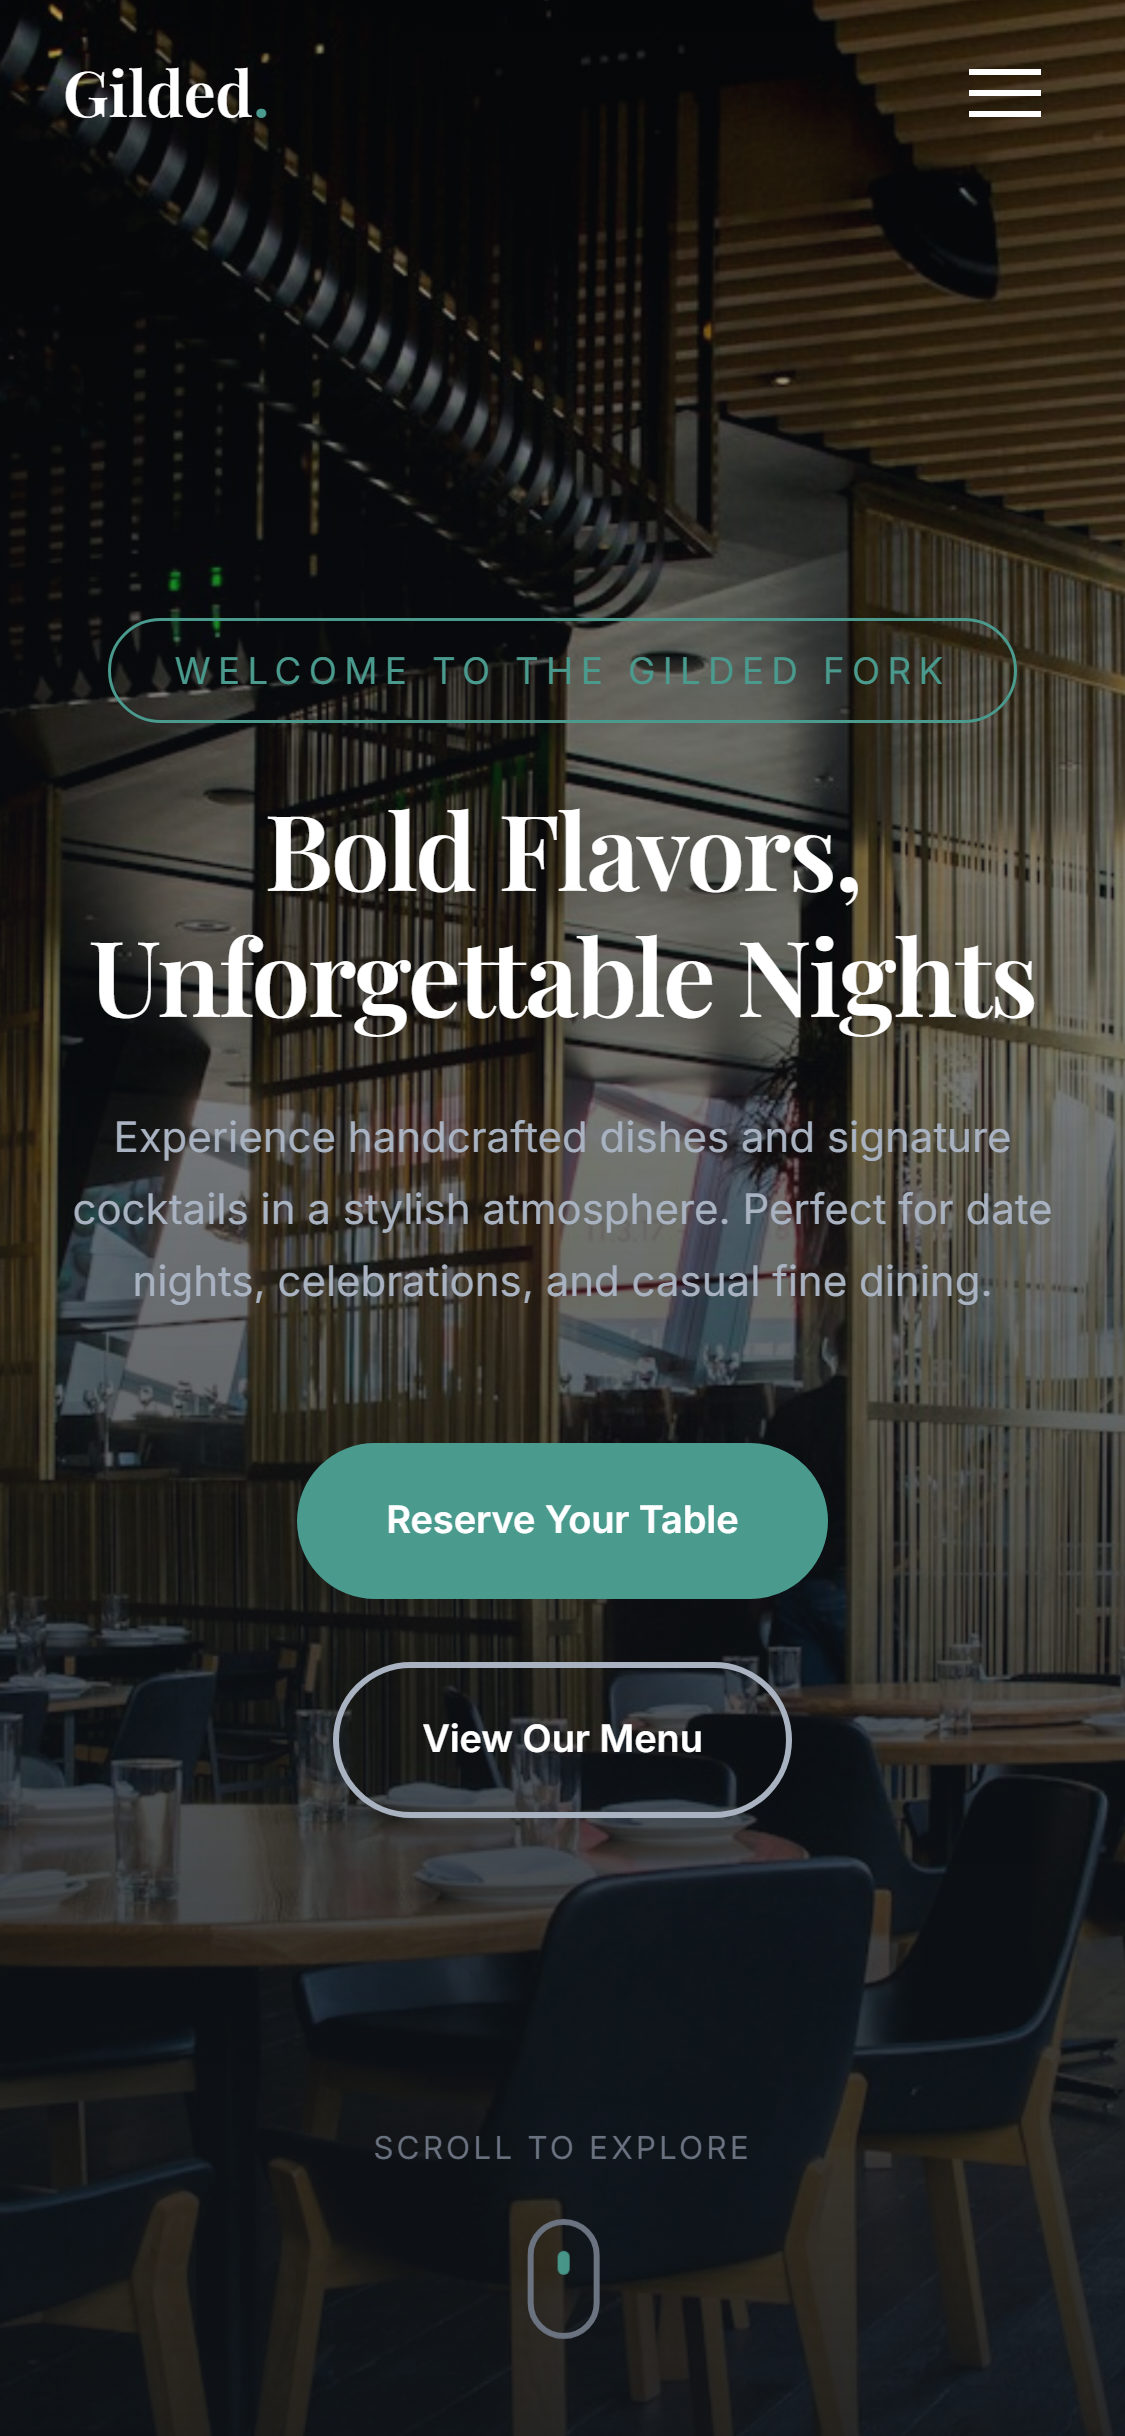
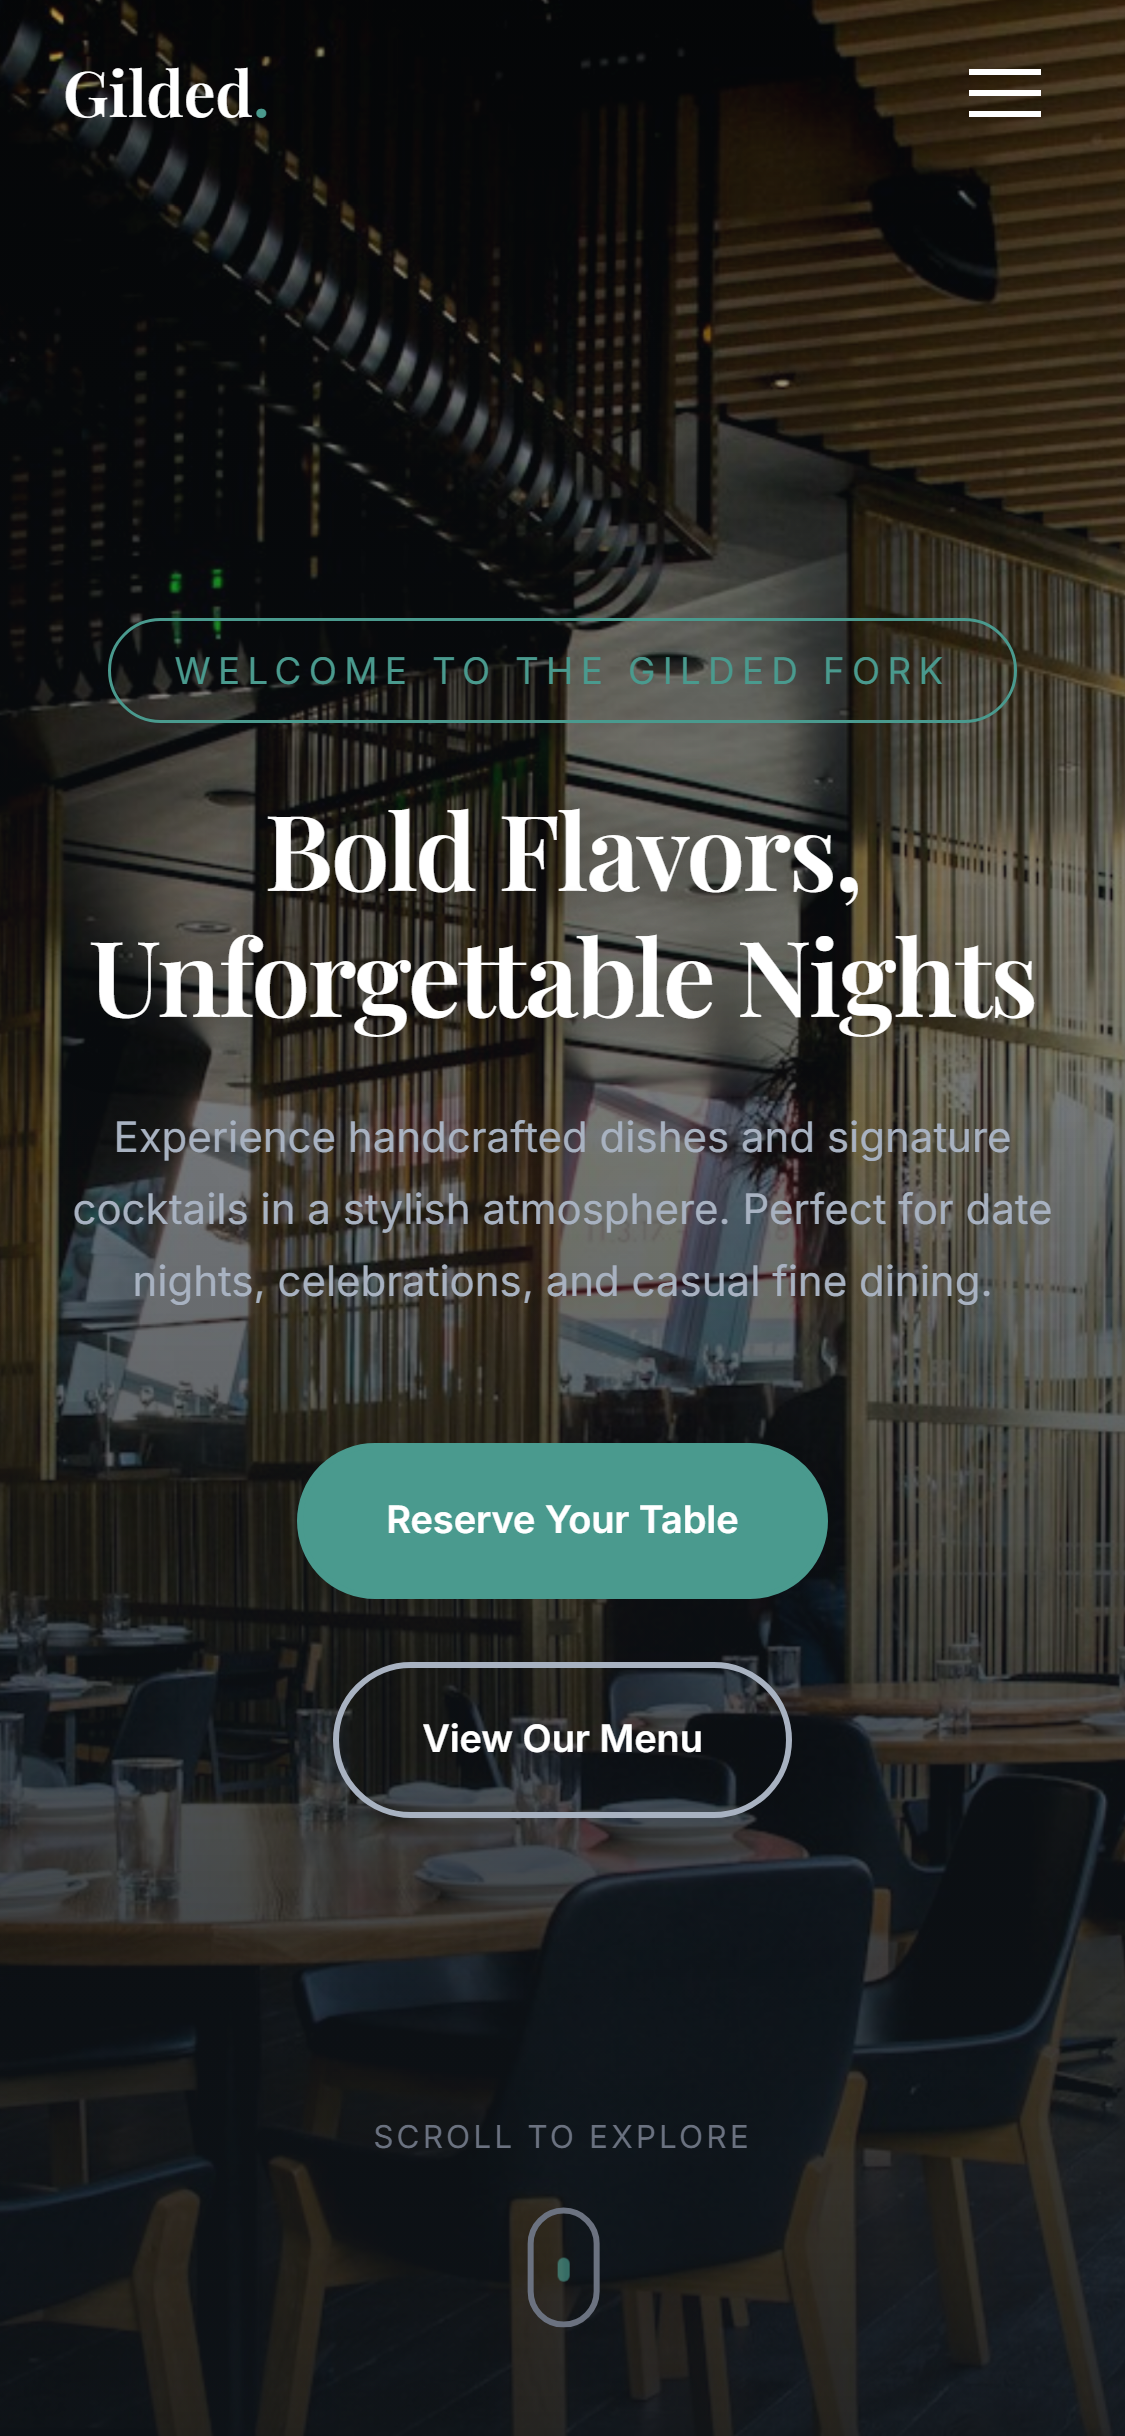
feat: retake fresh mockup screenshots for The Gilded Fork and apply cache busting to work.html

diff --git a/work.html b/work.html
@@ -168,7 +168,7 @@
                                             <span class="macbook-led"></span>
                                         </div>
                                         <div class="macbook-viewport">
-                                            <img src="images/gilded-desktop.png" alt="The Gilded Fork Restaurant Desktop" class="macbook-img" />
+                                            <img src="images/gilded-desktop.png?v=2" alt="The Gilded Fork Restaurant Desktop" class="macbook-img" />
                                         </div>
                                         <div class="macbook-reflection"></div>
                                     </div>
@@ -180,7 +180,7 @@
                                     <div class="iphone-screen">
                                         <div class="iphone-island"></div>
                                         <div class="iphone-viewport">
-                                            <img src="images/gilded-mobile.png" alt="The Gilded Fork Restaurant Mobile" class="iphone-img" />
+                                            <img src="images/gilded-mobile.png?v=2" alt="The Gilded Fork Restaurant Mobile" class="iphone-img" />
                                         </div>
                                         <div class="iphone-reflection"></div>
                                         <div class="iphone-home-bar"></div>
